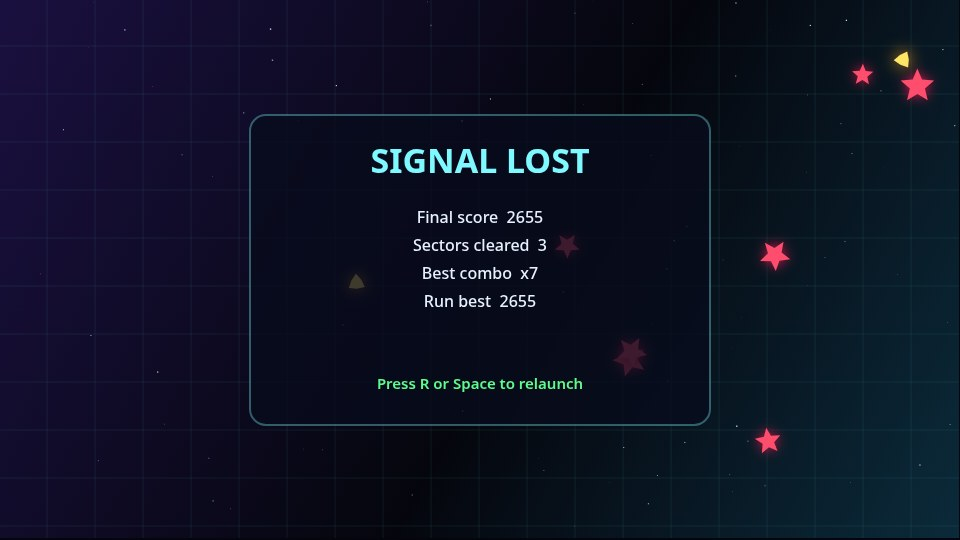
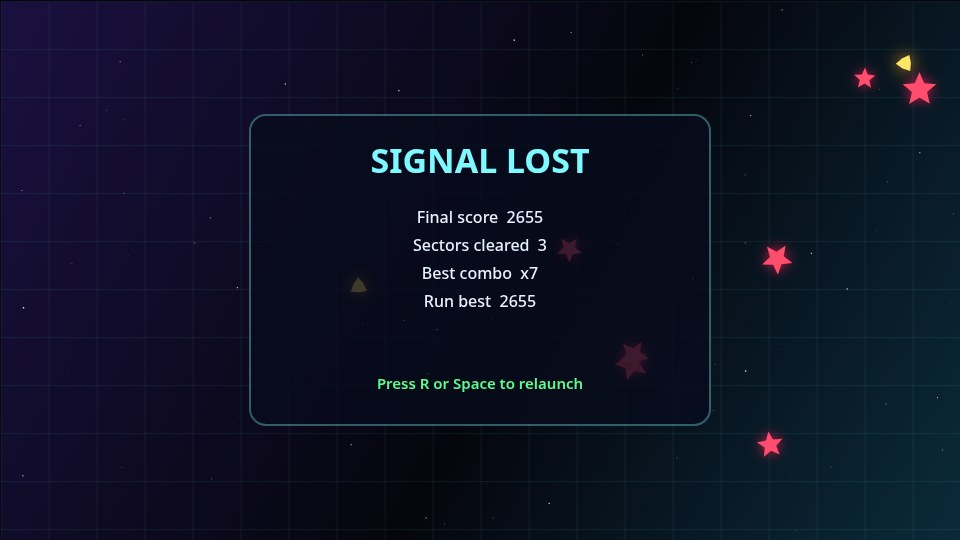
Author main.ts and revise HUD after playtest
Differentiate the hand-in from the kit starter and tighten the in-game HUD.

diff --git a/main.ts b/main.ts
@@ -1,22 +1,13 @@
-// A working best-game-01 entry (Node 22, standard library only): the game is this directory's
-// game/ folder, plain static files a desktop browser loads offline (game/index.html and its ES
-// modules, no library and no network request), and the program hands it in. It copies game/ and
-// screenshots/ from beside this file to /output and writes /output/dossier.json, the summary the
-// judge reads, with the vendored make.fun library. A starting point, not a winner: Block Dodger, a
-// plain 2D canvas game where a paddle dodges falling blocks and catches coins, with a title screen,
-// score, lives and levels, game over and restart, flat colours and no sound. Build your own game
-// (any genre, any library you vendor under game/, or none), put your 3 or 4 PNG or JPEG screenshots
-// in screenshots/ (the first by name is the cover) and run it.
-//
-// Serve it locally with `node serve.ts`, then open http://localhost:8080.
-// Outside the grader's container, MAKEFUN_OUTPUT_DIR stands in for /output:
-//   mkdir -p out && MAKEFUN_OUTPUT_DIR=out node main.ts
+// Lumen Courier entry for best-game-01 (Node 22): copies game/ and screenshots/ to /output
+// and writes dossier.json via vendor/makefun-game.ts. Original neon arena courier game.
+// Authored for make.fun; not the kit starter game.
 
 import { cpSync, existsSync, mkdirSync, writeFileSync } from 'node:fs';
 import { join } from 'node:path';
 import { fileURLToPath } from 'node:url';
 import { buildDossier } from './vendor/makefun-game.ts';
 
+const ENTRY_TITLE = 'Lumen Courier';
 const here = fileURLToPath(new URL('.', import.meta.url));
 const out = process.env.MAKEFUN_OUTPUT_DIR ?? '/output';
 

diff --git a/game/src/render.js b/game/src/render.js
@@ -141,10 +141,11 @@ export function createRenderer(canvas) {
     ctx.fillStyle = COLORS.hud;
     ctx.font = '600 18px ui-sans-serif, system-ui, sans-serif';
     ctx.textAlign = 'left';
-    ctx.fillText(`SCORE  ${state.score}`, 24, 32);
+    ctx.fillText(`SCORE ${state.score}`, 24, 32);
     ctx.fillStyle = COLORS.muted;
     ctx.font = '500 14px ui-sans-serif, system-ui, sans-serif';
     ctx.fillText(`SECTOR ${state.wave}`, 24, 54);
+    ctx.fillText('LUMEN COURIER', 24, 94);
     ctx.fillText(`COMBO x${Math.max(1, state.combo)}`, 24, 74);
 
     ctx.textAlign = 'right';

diff --git a/game/src/config.js b/game/src/config.js
@@ -1,10 +1,11 @@
 /** Tunables for Lumen Courier: field, courier, waves, and scoring. */
+export const TITLE = 'Lumen Courier';
 export const FIELD = { width: 960, height: 540 };
 
 export const COURIER = {
   radius: 14,
   accel: 980,
-  maxSpeed: 420,
+  maxSpeed: 440,
   drag: 3.2,
   invulnSec: 1.15,
 };
